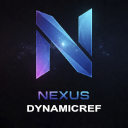
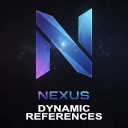
Use long form name for links

Changed region(s): [[0.1875, 0.8125, 0.8125, 0.9375]]

diff --git a/Plugins/DynamicRefs/Source/NexusDynamicRefs/Public/NDynamicRefSubsystem.h b/Plugins/DynamicRefs/Source/NexusDynamicRefs/Public/NDynamicRefSubsystem.h
@@ -23,7 +23,7 @@ struct FNDynamicRefCollection
 
 /**
  * A locator system that maintains a map that organizes UObject's into predefined categories (ENDynamicRef) or buckets (FName).
- * @see <a href="https://nexus-framework.com/docs/plugins/dynamic-refs/types/dynamic-ref-subsystem/">UNDynamicRefSubsystem</a>
+ * @see <a href="https://nexus-framework.com/docs/plugins/dynamic-references/types/dynamic-ref-subsystem/">UNDynamicRefSubsystem</a>
  */
 UCLASS(BlueprintType, ClassGroup = "NEXUS", DisplayName = "DynamicRef Subsystem")
 class NEXUSDYNAMICREFS_API UNDynamicRefSubsystem : public UWorldSubsystem
@@ -48,7 +48,7 @@ class NEXUSDYNAMICREFS_API UNDynamicRefSubsystem : public UWorldSubsystem
 	 * @param InObject The UObject to be referenced by the provided ENDynamicRef.
 	 */
 	UFUNCTION(BlueprintCallable, DisplayName="Add Object", Category = "NEXUS|DynamicRefs",
-		meta=(DocsURL="https://nexus-framework.com/docs/plugins/dynamic-refs/types/dynamic-ref-subsystem/#add-object"))
+		meta=(DocsURL="https://nexus-framework.com/docs/plugins/dynamic-references/types/dynamic-ref-subsystem/#add-object"))
 	void AddObject(ENDynamicRef DynamicRef, UObject* InObject);
 
 	/**
@@ -58,7 +58,7 @@ class NEXUSDYNAMICREFS_API UNDynamicRefSubsystem : public UWorldSubsystem
 	 * @param InObject The UObject to be referenced by the FName.
 	 */
 	UFUNCTION(BlueprintCallable, DisplayName="Add Object (By Name)", Category = "NEXUS|DynamicRefs",
-		meta=(DocsURL="https://nexus-framework.com/docs/plugins/dynamic-refs/types/dynamic-ref-subsystem/#add-object-by-name"))
+		meta=(DocsURL="https://nexus-framework.com/docs/plugins/dynamic-references/types/dynamic-ref-subsystem/#add-object-by-name"))
 	void AddObjectByName(FName Name, UObject* InObject);
 	
 	/**
@@ -67,7 +67,7 @@ class NEXUSDYNAMICREFS_API UNDynamicRefSubsystem : public UWorldSubsystem
 	 * @param InObject The UObject to be having its reference removed by the provided ENDynamicRef.
 	 */
 	UFUNCTION(BlueprintCallable, DisplayName="Remove Object", Category = "NEXUS|DynamicRefs",
-		meta=(DocsURL="https://nexus-framework.com/docs/plugins/dynamic-refs/types/dynamic-ref-subsystem/#remove-object"))
+		meta=(DocsURL="https://nexus-framework.com/docs/plugins/dynamic-references/types/dynamic-ref-subsystem/#remove-object"))
 	void RemoveObject(ENDynamicRef DynamicRef, UObject* InObject);
 	
 	/**
@@ -77,7 +77,7 @@ class NEXUSDYNAMICREFS_API UNDynamicRefSubsystem : public UWorldSubsystem
 	 * @param InObject The UObject to be having its reference removed by the FName.
 	 */
 	UFUNCTION(BlueprintCallable, DisplayName="Remove Object (By Name)", Category = "NEXUS|DynamicRefs",
-		meta=(DocsURL="https://nexus-framework.com/docs/plugins/dynamic-refs/types/dynamic-ref-subsystem/#remove-object-by-name"))
+		meta=(DocsURL="https://nexus-framework.com/docs/plugins/dynamic-references/types/dynamic-ref-subsystem/#remove-object-by-name"))
 	void RemoveObjectByName(FName Name, UObject* InObject);
 	
 
@@ -88,7 +88,7 @@ class NEXUSDYNAMICREFS_API UNDynamicRefSubsystem : public UWorldSubsystem
 	 * @return An array of UObject. 
 	 */
 	UFUNCTION(BlueprintCallable, DisplayName="Get Actors", Category = "NEXUS|DynamicRefs",
-			meta=(DocsURL="https://nexus-framework.com/docs/plugins/dynamic-refs/types/dynamic-ref-subsystem/#get-actors"))
+			meta=(DocsURL="https://nexus-framework.com/docs/plugins/dynamic-references/types/dynamic-ref-subsystem/#get-actors"))
 	TArray<AActor*> GetActors(const ENDynamicRef DynamicRef);
 	
 	/**
@@ -98,7 +98,7 @@ class NEXUSDYNAMICREFS_API UNDynamicRefSubsystem : public UWorldSubsystem
 	 * @return An array of UObject. 
 	 */
 	UFUNCTION(BlueprintCallable, DisplayName="Get Actors (By Name)", Category = "NEXUS|DynamicRefs",
-			meta=(DocsURL="https://nexus-framework.com/docs/plugins/dynamic-refs/types/dynamic-ref-subsystem/#get-actors-by-name"))
+			meta=(DocsURL="https://nexus-framework.com/docs/plugins/dynamic-references/types/dynamic-ref-subsystem/#get-actors-by-name"))
 	TArray<AActor*> GetActorsByName(FName Name);
 
 
@@ -108,7 +108,7 @@ class NEXUSDYNAMICREFS_API UNDynamicRefSubsystem : public UWorldSubsystem
 	 * @return The number of UObjects associated with the specified ENDynamicRef collection.
 	 */
 	UFUNCTION(BlueprintCallable, DisplayName="Get Count", Category = "NEXUS|DynamicRefs",
-			meta=(DocsURL="https://nexus-framework.com/docs/plugins/dynamic-refs/types/dynamic-ref-subsystem/#get-count"))
+			meta=(DocsURL="https://nexus-framework.com/docs/plugins/dynamic-references/types/dynamic-ref-subsystem/#get-count"))
 	int32 GetCount(const ENDynamicRef DynamicRef);
 
 	/**
@@ -117,7 +117,7 @@ class NEXUSDYNAMICREFS_API UNDynamicRefSubsystem : public UWorldSubsystem
 	 * @return The number of UObjects associated with the specified FName collection.
 	 */
 	UFUNCTION(BlueprintCallable, DisplayName="Get Count (By Name)", Category = "NEXUS|DynamicRefs",
-			meta=(DocsURL="https://nexus-framework.com/docs/plugins/dynamic-refs/types/dynamic-ref-subsystem/#get-count-by-name"))
+			meta=(DocsURL="https://nexus-framework.com/docs/plugins/dynamic-references/types/dynamic-ref-subsystem/#get-count-by-name"))
 	int32 GetCountByName(FName Name);
 	
 	/**
@@ -126,7 +126,7 @@ class NEXUSDYNAMICREFS_API UNDynamicRefSubsystem : public UWorldSubsystem
 	 * @return An array of UObject. 
 	 */
 	UFUNCTION(BlueprintCallable, DisplayName="Get Objects", Category = "NEXUS|DynamicRefs",
-		meta=(DocsURL="https://nexus-framework.com/docs/plugins/dynamic-refs/types/dynamic-ref-subsystem/#get-objects"))
+		meta=(DocsURL="https://nexus-framework.com/docs/plugins/dynamic-references/types/dynamic-ref-subsystem/#get-objects"))
 	TArray<UObject*> GetObjects(const ENDynamicRef DynamicRef);
 
 	/**
@@ -135,7 +135,7 @@ class NEXUSDYNAMICREFS_API UNDynamicRefSubsystem : public UWorldSubsystem
 	 * @return An array of UObject. 
 	 */
 	UFUNCTION(BlueprintCallable, DisplayName="Get Objects", Category = "NEXUS|DynamicRefs",
-		meta=(DocsURL="https://nexus-framework.com/docs/plugins/dynamic-refs/types/dynamic-ref-subsystem/#get-objects-by-name"))
+		meta=(DocsURL="https://nexus-framework.com/docs/plugins/dynamic-references/types/dynamic-ref-subsystem/#get-objects-by-name"))
 	TArray<UObject*> GetObjectsByName(FName Name);
 
 	/**
@@ -144,7 +144,7 @@ class NEXUSDYNAMICREFS_API UNDynamicRefSubsystem : public UWorldSubsystem
 	 * @return A pointer to the first AActor found for the specified ENDynamicRef, or nullptr if no actors are found.
 	 */
 	UFUNCTION(BlueprintCallable, DisplayName="Get First Actor", Category = "NEXUS|DynamicRefs",
-		meta=(DocsURL="https://nexus-framework.com/docs/plugins/dynamic-refs/types/dynamic-ref-subsystem/#get-first-actor"))
+		meta=(DocsURL="https://nexus-framework.com/docs/plugins/dynamic-references/types/dynamic-ref-subsystem/#get-first-actor"))
 	AActor* GetFirstActor(const ENDynamicRef DynamicRef);
 	
 	/**
@@ -153,7 +153,7 @@ class NEXUSDYNAMICREFS_API UNDynamicRefSubsystem : public UWorldSubsystem
 	 * @return A pointer to the first AActor found for the specified ENDynamicRef, or nullptr if no actors are found.
 	 */
 	UFUNCTION(BlueprintCallable, DisplayName="Get First Actor (By Name)", Category = "NEXUS|DynamicRefs",
-		meta=(DocsURL="https://nexus-framework.com/docs/plugins/dynamic-refs/types/dynamic-ref-subsystem/#get-first-actor-by-name"))
+		meta=(DocsURL="https://nexus-framework.com/docs/plugins/dynamic-references/types/dynamic-ref-subsystem/#get-first-actor-by-name"))
 	AActor* GetFirstActorByName(FName Name);
 	
 	/**
@@ -162,7 +162,7 @@ class NEXUSDYNAMICREFS_API UNDynamicRefSubsystem : public UWorldSubsystem
 	* @return The first UObject in the collection. 
 	*/
 	UFUNCTION(BlueprintCallable, DisplayName="Get First Object", Category = "NEXUS|DynamicRefs",
-		meta=(DocsURL="https://nexus-framework.com/docs/plugins/dynamic-refs/types/dynamic-ref-subsystem/#get-first-object"))
+		meta=(DocsURL="https://nexus-framework.com/docs/plugins/dynamic-references/types/dynamic-ref-subsystem/#get-first-object"))
 	UObject* GetFirstObject(const ENDynamicRef DynamicRef);
 	
 	/**
@@ -178,7 +178,7 @@ class NEXUSDYNAMICREFS_API UNDynamicRefSubsystem : public UWorldSubsystem
 	* @return The first UObject in the collection. 
 	*/
 	UFUNCTION(BlueprintCallable, DisplayName="Get First Object (By Name)", Category = "NEXUS|DynamicRefs",
-		meta=(DocsURL="https://nexus-framework.com/docs/plugins/dynamic-refs/types/dynamic-ref-subsystem/#get-first-object-by-name"))
+		meta=(DocsURL="https://nexus-framework.com/docs/plugins/dynamic-references/types/dynamic-ref-subsystem/#get-first-object-by-name"))
 	UObject* GetFirstObjectByName(FName Name);
 	
 	/**
@@ -194,7 +194,7 @@ class NEXUSDYNAMICREFS_API UNDynamicRefSubsystem : public UWorldSubsystem
 	 * @return A pointer to the first AActor found for the specified ENDynamicRef, or nullptr if no actors are found.
 	 */
 	UFUNCTION(BlueprintCallable, DisplayName="Get Last Actor", Category = "NEXUS|DynamicRefs",
-		meta=(DocsURL="https://nexus-framework.com/docs/plugins/dynamic-refs/types/dynamic-ref-subsystem/#get-last-actor"))
+		meta=(DocsURL="https://nexus-framework.com/docs/plugins/dynamic-references/types/dynamic-ref-subsystem/#get-last-actor"))
 	AActor* GetLastActor(const ENDynamicRef DynamicRef);
 	
 	/**
@@ -203,7 +203,7 @@ class NEXUSDYNAMICREFS_API UNDynamicRefSubsystem : public UWorldSubsystem
 	 * @return A pointer to the first AActor found for the specified ENDynamicRef, or nullptr if no actors are found.
 	 */
 	UFUNCTION(BlueprintCallable, DisplayName="Get Last Actor (By Name)", Category = "NEXUS|DynamicRefs",
-		meta=(DocsURL="https://nexus-framework.com/docs/plugins/dynamic-refs/types/dynamic-ref-subsystem/#get-last-actor-by-name"))
+		meta=(DocsURL="https://nexus-framework.com/docs/plugins/dynamic-references/types/dynamic-ref-subsystem/#get-last-actor-by-name"))
 	AActor* GetLastActorByName(FName Name);
 	
 	/**
@@ -212,7 +212,7 @@ class NEXUSDYNAMICREFS_API UNDynamicRefSubsystem : public UWorldSubsystem
 	* @return The last UObject in the collection. 
 	*/
 	UFUNCTION(BlueprintCallable, DisplayName="Get Last Object", Category = "NEXUS|DynamicRefs",
-		meta=(DocsURL="https://nexus-framework.com/docs/plugins/dynamic-refs/types/dynamic-ref-subsystem/#get-last-object"))
+		meta=(DocsURL="https://nexus-framework.com/docs/plugins/dynamic-references/types/dynamic-ref-subsystem/#get-last-object"))
 	UObject* GetLastObject(const ENDynamicRef DynamicRef);
 	
 	/**
@@ -228,7 +228,7 @@ class NEXUSDYNAMICREFS_API UNDynamicRefSubsystem : public UWorldSubsystem
 	* @return The last UObject in the collection. 
 	*/
 	UFUNCTION(BlueprintCallable, DisplayName="Get Last Object (By Name)", Category = "NEXUS|DynamicRefs",
-		meta=(DocsURL="https://nexus-framework.com/docs/plugins/dynamic-refs/types/dynamic-ref-subsystem/#get-last-object-by-name"))
+		meta=(DocsURL="https://nexus-framework.com/docs/plugins/dynamic-references/types/dynamic-ref-subsystem/#get-last-object-by-name"))
 	UObject* GetLastObjectByName(FName Name);
 	
 	/**
